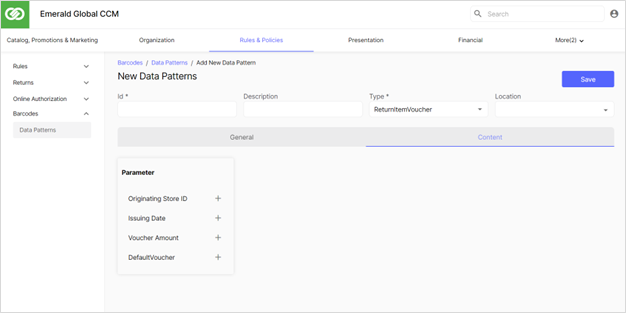
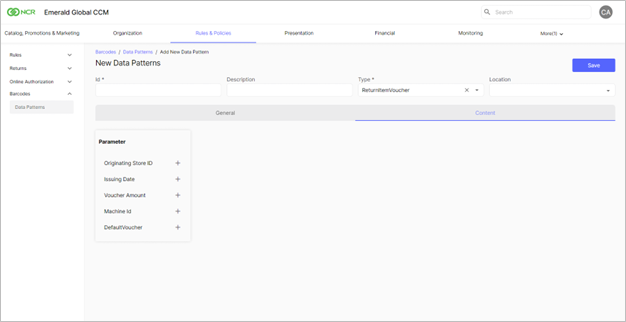
Changes to be committed:

diff --git a/Catalog_Promotions_and_Marketing/Promotions/Promotions.md b/Catalog_Promotions_and_Marketing/Promotions/Promotions.md
@@ -131,8 +131,9 @@ The Reward option defines the reward types issued when the promotion is triggere
 |Reward Applies to Baskets|The Basket rewarded in the promotion. For example, if you want to set up a promotion 'Buy a sandwich Get coffee for Free, on creating the promotion the sandwich is linked to one basket and the coffee to another. The basket including the coffee is selected as the basket the reward is applied to.<br>This is a mandatory field. By default, the field is blank and a value must be selected.|
 |Accumulate Reward Into|The entity the promotion reward is accumulated into. The promotion reward is given as a deferred reward and not as an immediate reward. This enables retailers to support sophisticated points earning schemes, such as Fixed amount of points, or calculated amounts based on the items price or quantity.<BR><BR>**Member Account** - The reward is accumulated into a Member Account<BR>When selected, the following fields are displayed.<BR>*Member Account* - The name of the Member Account in which the points earned in a promotion are accumulated in.<BR>*Exclude from Tender Optimization* – Indicates that the promotion participates in Tender Optimization. Tender Optimization is a type of conflict, which ensures that if more than one promotion is triggered in a transaction, the customer is rewarded with the maximum number of points.<BR>For example, a customer partially pays for their items in cash and partially with a tender, which is excluded from a points earning promotion. To give the customer the maximum points reward, the cash tender pays for items which contribute the most to the points accumulation.<BR><BR>**Coupon** - The reward is accumulated into a coupon reward. Opens additional fields for details.<BR>When selected, the following fields are selected:<BR>*Coupon Type* - the coupon number issued when the promotion is triggered. The options are:<BR>Full Barcode – indicates that the exact full barcode, which is defined in the Barcode field is issued when this promotion is triggered.<BR>Instance Selection - indicates that a coupon, which belongs to the selected coupon instance is issued when the promotion is triggered.<BR>*Message ID* – The message template printed on the coupon when issued.<BR>*Group By* - Specifies if the promotion aggregates multiple coupons within one transaction, or as a single coupon.<BR>The options are:<br>Promotion Level (Default) – indicates that a coupon is issued only once in a transaction, regardless of the number of times a promotion is triggered. The reward value of the coupon aggregates all the reward values, and is dependent on the number of redemptions.<br>Redemption Level – indicates that a coupon is issued each time the promotion is triggered.<br>Ticket Level - indicates that all coupon rewards issued from different promotions triggered in a ticket with the same Coupon Series ID, Coupon Instance ID, Message ID and Validity Period are aggregated into one coupon. For example, if the customer receives a coupon reward for $1.50 off and another coupon reward for $5.00 off, the customer receives one coupon for $6.50.<BR>*Validity Period* - The period during which the coupon reward is valid.<BR>The options are:<br>Always - the coupon is valid up to 2 years from the date the coupon was issued<br>Starting From - the coupon is valid from the date the coupon was issued up to a specified  number of days. When selected the following fields are displayed:<BR>Between Date Range (From, To) - the dates between which the coupon is valid. When selected, the following fields are displayed:<BR>**Gift Card** - The reward is accumulated into a Gift Card. When selected the Gift Card ID field is displayed to enter the Gift Card ID.|
 |Manually triggered in POS|Indicates that the reward is manually triggered at the POS terminal by the cashier.<BR>When selected the following fields are displayed:<BR>**Reward apply on all items lines** – specifies the range of reward amounts that can be issued when the promotion is manually triggered at the POS.<BR>*Minimum Reward Value* - The minimum reward that can be issued.<BR>*Maximum Reward Value* - The maximum reward that can be issued.|
-|Multi Level|Indicates if reward levels are defined to enable customers to get bigger rewards as they spend or buy more.<br>For example, if you are running a promotion that specifies 'Buy a Cake on promotion for $3.00, instead of the regular price of $4.00, you can add levels to specify that if the Customer purchases 2 cakes, they pay $2.50, or 3 cakes, they pay $2.00, etc. You can add as many levels as you wish.<br>**Note:** A single condition must be defined before assigning multiple reward levels.<br>If selected the following fields are displayed:<br>**Level ID** – The reward level number (automatically populated by the system).<br>**Threshold Value** – The minimum qualifying amount or quantity of the item/s on promotion to be purchased, to allow the reward specified in this level. E.g., enter 3, to specify that is the number of items the customer must purchase.<br>**Reward Value** - The reward value, e.g., enter 2 to indicate a new price of $2.00.|
+|Multi Level|Indicates if reward levels are defined to enable customers to get bigger rewards as they spend or buy more.<br>For example, if you are running a promotion that specifies 'Buy a Cake on promotion for $3.00, instead of the regular price of $4.00, you can add levels to specify that if the Customer purchases 2 cakes, they pay $2.50, or 3 cakes, they pay $2.00, etc. You can add as many levels as you wish.<br>**Note:** A single condition must be defined before assigning multiple reward levels.<br>When selected the following fields are displayed:<br>**Level ID** – The reward level number (automatically populated by the system).<br>**Threshold Value** – The minimum qualifying amount or quantity of the item/s on promotion to be purchased, to allow the reward specified in this level. E.g., enter 3, to specify that is the number of items the customer must purchase.<br>**Reward Value** - The reward value, e.g., enter 2 to indicate a new price of $2.00.|
 |Redeem from Member Account|Indicates that monetary rewards are given against points accumulated in Member Accounts. When selected, the following fields are displayed:<br>**Member Account** – The Member Account from which the points are redeemed.<br>**Redeem Value** – The value redeemed during the promotion. The value is a value per redemption. For example, if the promotion is configured to give $5 off, and the number of points to redeem is configured as 2, if the promotion is triggered 4 times, the customer receives $20 discount and 8 points are deducted from the selected member account.<br>**Redeem Once Per Ticket** - the number of points redeemed in a promotion is deducted from the member account only once per ticket, and not each time the promotion is triggered.<br>For example, a promotion rewarding the Loyalty customers with $0.10 Off per liter of fuel purchased. To trigger the promotion, the customer must have accumulated at least 100 points in their Member Account, which are redeemed when the promotion is triggered. The Redeem Once Per Ticket field is set to Yes.<br>The customer has 300 points in their Member Account and purchases five liters of fuel. The customer receives a total discount of $0.50 and 100 points are redeemed from their Member Account. The closing balance is 200.<BR>Although the $0.10 discount is deducted for each liter of fuel, the points are deducted from the Member Account only once in the transaction.|
+|Pay By Points Promotion|Indicates that the promotion can only be triggered manually. When selected, the following field is displayed:<BR>* **Trigger Type** – Manually – indicates that the promotion can only be triggered manually.|
 |Rounding Method|Specifies how the reward is rounded. The options are:<BR>**Nearest** - indicates that the decimal value is rounded to the nearest integer, e.g., $10.75 is rounded to $11.00.<br>**Always Up** - indicates that the decimal value is rounded up to the next decimal place, e.g., $10.75 is rounded to $10.80.<br>**Always Down** - indicates that the decimal value is rounded down to the next decimal place, e.g., $10.75 is rounded to $10.70.|
 |Reward Accounting Type|Specifies the option used to fund the promotion in order to reconcile the rewards given to customers according to the agreements with the suppliers/stores.<BR>The options are:<BR>**Discount** - indicates that the promotion reward is reduces the item price. The reward amount is deducted from the amount the customers pays and reduces the store's revenues.<BR>**Tender** - indicates that the reward amount is recorded as a tender. The promotion reward is not deducted from the item price and does not reduce the store’s revenue. It is accounted for as a tender paid by the customer.<BR>Only promotions with a monetary reward can be setup to calculate the reward as a tender. The promotion represents the tender, which pays for the item.<BR>For example:<BR>Pay with a Visa card for a computer on sale in the store and get 5% discount. Visa covers the computer price.<BR>Staff Discount as a Tender - the Retailer may give their employees a defined percentage off all their purchases. When an employee purchases items, and the employee card is swiped before the transaction, the reward amount does not reduce the retailer's revenue by reducing the items price, but instead is reported as a special Staff Discount Tender.<BR>Another example is Coupon as tender. A coupon may be considered a tender and therefore trigger a promotion with a reward as tender.<BR>For example, the store is running a promotion Buy 3 Bottles of Wine, Present a Coupon and Get the New Price of $10.00 instead of $27.00. The Coupon amount is recorded to the rewarding tender.  This enables the user to follow up all discounts given on a specific reward, i.e., coupons.<BR>Rewarding Tenders can accumulate a range of reward types, amount off, percent off, new price, etc.|
 |Apply reward on item without modifiers|Indicates that the reward is applied to items with modifiers that are charged an extra price.<BR>If selected, the promotion discount is only applied to the main item and not to any modifiers added to the item.<BR>If not selected, the promotion discount is applied to both the main item and all added modifiers. This is the default value.<BR>For example, a Buy a Burger Get For $11.00 promotion is running in the store. The Apply reward on items without modifiers slider is set to display No.<BR>The customer orders a Burger for $13.00 and adds Avocado $0.50 and Egg $0.50 (modifiers) to the order. On triggering the promotion, the promotion reward is applied to the total order amount $14.00 including the modifiers. The customer pays $11.00.|
@@ -223,15 +224,16 @@ Defines the promotion timing and conflict policies applied to a promotion.
 |**Redemption Limit**|The redemption limitations applied to the promotion.|
 |Limitation Period|Specifies the redemption limitations applied to the promotion.<BR>The options are:<BR>**Ticket Limit** - the promotion redemption limit is per transaction.  For example, in one transaction the customer may be limited to redeem up to 100 points, or if the reward is a free item, the customer may be limited to receive the reward only once per transaction.<BR>**Days** - the promotion redemption limit is per day or number of days. When selected the No of Days field is displayed to enter the number of days the promotion redemptions are limited to.<BR>For example, if the No of Days is 30, and the Limit Value is 5, the customer can redeem the promotion five times in 30 days.<BR>**Total** - the number of promotion redemptions is not limited to a specific time period. The system only takes into account the promotion expiry date. For example, you can specify that the customer can redeem the promotion five times.|
 |Limit Value|The number of promotion redemptions limited in the selected Limitation Period.|
-|UOM Quantity Limit|Limits the UOM quantity rewarded in a ticket when there is no limit on the number of redemptions.<BR>For example, you can set up a promotion to Get a New Price of $4.00 per kilo , and limit the reward to 5 kg in the ticket. If the customer bought 10 kg, the customer is rewarded only 5 kg. The limitation can be defined per ticket, total amount, or days.<BR>A UOM Quantity Limit can be applied to the current ticket or multiple transactions for loyalty members (Days, Total). For example, limit to 5Kg in 1 day, or limit to 5 kg in total.<BR>The UOM limit is applicable only for Amount Off, Percent Off, New Price and Free Item rewards.|
+|UOM Quantity Limit|Limits the UOM quantity rewarded in a ticket when there is no limit on the number of redemptions.<BR>For example, you can set up a promotion to Get a New Price of $4.00 per kilo, and limit the reward to 5 kg in the ticket. If the customer bought 10 kg, the customer is rewarded only 5 kg. The limitation can be defined per ticket, total amount, or days.<BR>A UOM Quantity Limit can be applied to the current ticket or multiple transactions for loyalty members (Days, Total). For example, limit to 5Kg in 1 day, or limit to 5 kg in total.<BR>The UOM limit is applicable only for Amount Off, Percent Off, New Price and Free Item rewards.|
 |Limitation Period|The redemption limitations applied to the promotion.<BR>The options are:<BR>**Ticket Limit** - The UOM Quantity is limit is per transaction. For example, the customer may be limited to receive a reward on up to 5 kg only in a transaction.<BR>**Days** - The UOM Quantity is limited per day or number of days. For example, the customer may be limited to receive a reward up to 5 kg per day. When selected the No of Days field is displayed to enter the number of days the promotion redemptions are limited to.<BR>For example, The number of days the UOM Quantity is limited to. For example, if the No of Days is 10, and the Limit Value is 5, the customer is limited to purchase 5 kg in 10 days.<BR>**Total** - The UOM Quantity is limited to a specified amount. For example, the customer may be limited to receive a reward on a total of 5 kg.|
 |Limit Value|The amount the UOM Quantity is limited to. For example, if you enter 5, the promotion redemption is limited to 5 kg.|
-|Conflict and Priority|Defines conflict participation for each promotion. You can specify which promotions participate in promotion conflicts, and which promotions are excluded from promotion conflicts.<BR>Promotion conflicts occur when there is more than one promotion offering different rewards on the same items. The Conflict Management rules aim to optimize customer rewards, while minimizing the option of giving double rewards on items that trigger more than one promotion. Any item that can trigger a promotion on its own can participate in Conflict Management.<BR>In addition, you can assign a promotion to a Promotion Group. The Promotion engine resolves promotion conflicts between promotions linked to the same Conflict Group.<BR>For example:<BR>A customer purchases two cokes, with the following two promotions in the system:<BR>The first promotion has the condition that when purchasing two cokes, the customer is rewarded with one free coke.<BR>The second promotion has the condition that when purchasing two cokes, the customer is rewarded with 25% off the second coke.<BR>In the case where both promotions are not assigned to the same Conflict Group, then the customer is rewarded twice. The customer is rewarded with one coke free, and also rewarded with 25% off the second coke.<BR>In the case where both promotions are assigned to the same Conflict Group, only one of the promotions is triggered for each instance of an item.<BR>This means, that each item (instance) is allocated to one promotion. The items allocation between the promotions, depends on what the best reward is for the customer. In this case, the best reward value available to the customer is achieved by allocating both cokes to the first promotion, and rewarding the customer with a free coke (i.e. The reward value is higher than receiving 2*25% off).|
+|Conflict and Priority|Defines conflict participation for each promotion. You can specify which promotions participate in promotion conflicts, and which promotions are excluded from promotion conflicts.<BR>Promotion conflicts occur when there is more than one promotion offering different rewards on the same items. The Conflict Management rules aim to optimize customer rewards, while minimizing the option of giving double rewards on items that trigger more than one promotion. Any item that can trigger a promotion on its own can participate in Conflict Management.<BR>In addition, you can assign a promotion to a Promotion Group. The Promotion engine resolves promotion conflicts between promotions linked to the same Conflict Group. <BR>For example:<BR>A customer purchases two cokes, with the following two promotions in the system:<BR>The first promotion has the condition that when purchasing two cokes, the customer is rewarded with one free coke. <BR>The second promotion has the condition that when purchasing two cokes, the customer is rewarded with 25% off the second coke.<BR>In the case where both promotions are not assigned to the same Conflict Group, then the customer is rewarded twice. The customer is rewarded with one coke free, and also rewarded with 25% off the second coke.<BR>In the case where both promotions are assigned to the same Conflict Group, only one of the promotions is triggered for each instance of an item.<BR>This means, that each item (instance) is allocated to one promotion. The items allocation between the promotions, depends on what the best reward is for the customer. In this case, the best reward value available to the customer is achieved by allocating both cokes to the first promotion, and rewarding the customer with a free coke (i.e. The reward value is higher than receiving 2*25% off).|
 |Promotion Group|The ID the Promotion Group assigned to the promotion to handle promotion conflicts. If there is a conflict between two promotions linked to the same Promotion Group, the Promotion Engine resolves the conflict, and rewards the customer according to the priority and strategy defined for the Promotion Group.|
 |Allow Partial Reward|Indicates that the promotion reward is partially issued.<BR>If not selected, the promotion reward must be fully issued.<BR>For example, a promotion Buy 6 bottles of wine and Get 10% Off is running in the store. If the customer buys the 6 bottles of wine, the full reward of 10% is issued.<BR>Items rewarded in this scenario can also be used to trigger additional promotions in the same promotion group in which this option is set Yes.<BR>However, items which have already triggered a promotion cannot be used to trigger another promotion in which the reward was fully issued.<BR>If selected, the promotion reward can be partially issued.<BR>For example, if in addition to the above promotion, a 'Buy 8 bottles of wine and Get 5%' promotion is defined, when the customer buys 8 bottles of wine, all the 8 bottles of wine can be used to trigger the promotion even though 6 bottles have already triggered a promotion.<BR>However, the reward is only given on the bottles of wine not previously rewarded, i.e., the additional 2 bottles.<BR>If an item has already triggered a promotion, it cannot be used to trigger a promotion that was fully rewarded.|
 |Exclude promoted items|Specifies if items which triggered a promotion are excluded from triggering another promotion in the same ticket.<BR>If selected, the promotion is triggered only by items that have not triggered another promotion.<BR>For example, the following two promotions are set in the store:<BR>Buy A get $1.00 Off<BR>10% on your ticket<BR>The customer buys items A and B.<BR>The cashier scans Item A, and the first promotion is triggered.<BR>The cashier scans Item B, and the second promotion is triggered. The second promotion applies only on Item B since Item A is participated in the previous promotion.|
 |**Reward Limit**|Specifies the promotion reward limits.|
-|Limitation Period|The redemption limitations applied to the promotion.<BR>The options are:<BR>**Ticket Limit** - indicates that the promotion reward limit is per transaction.  For example, in one transaction the customer may be limited to a reward of up to 100 points, or if the reward is a free item, the customer may be limited to receive the reward only once.<BR>**Days** - indicates that the promotion redemption limit is per day or number of days. When selected the No of Days field is displayed to enter the number of days the promotion rewards are limited to.<BR>**Total** - indicates that the number of promotion rewards is not limited to a specific time period. The system only takes into account the promotion expiry date, for example, you can specify that the customer can receive a promotion reward five times.|
+|Include Reward Limit|Indicates that the user can apply the redemption limits to the promotion. When selected, the Limitation Period and Limit Value are enabled to allow the user to define the promotion limitation period and value.<BR>The **Include Reward Limit** field is displayed only when the **Pay By Points Promotion** checkbox is selected in the **Reward/Amount Off ##section.|
+|Limitation Period|The redemption limitations applied to the promotion.<BR>The options are:<BR>**Ticket Limit** - indicates that the promotion reward limit is per transaction.  For example, in one transaction the customer may be limited to a reward of up to 100 points, or if the reward is a free item, the customer may be limited to receive the reward only once.<BR>**Days** - indicates that the promotion redemption limit is per day or number of days. When selected the No of Days field is displayed to enter the number of days the promotion rewards are limited to.<BR>**Total** - indicates that the number of promotion rewards is not limited to a specific time period. The system only takes into account the promotion expiry date, for example, you can specify that the customer can receive a promotion reward five times.<BR><BR>**Note**: The **Limitation Period** and **Limit Value** fields are disabled for **Pay By Points Promotions**. See the **Include Reward Limit** field above.|
 |Limit Value|The number of promotion rewards limited in the selected Limitation Period.|
 
 ### Marketing Channels

diff --git a/Rules_and_Policies/Barcodes/Content_Tab.md b/Rules_and_Policies/Barcodes/Content_Tab.md
@@ -400,6 +400,7 @@ The **Return Item Voucher** data pattern type enables you to configure the data 
 |**Originating Store ID**|The ID of the store in which the item was purchased.<br>**Position** The position in the data pattern from which the originating store ID begins in the data pattern.<br>**Length** The number of digits in the originating store ID.<br>**Strip Leading Zeros** Indicates that leading zeros in the originating store ID are not considered in the validation, and the system validates the cashier reference ID without the zeros.|
 |**Issuing Date**|The date the voucher was issued.<br>**Position** The position in the data pattern from which the issuing date begins in the data pattern.<br>**Length** The number of digits in the issuing date.<br>**Strip Leading Zeros** Indicates that leading zeros in the issuing date are not considered in the validation, and the system validates the issuing date without the zeros.|
 |**Voucher Amount**|The voucher amount.<br>**Position** The position in the data pattern from which the voucher amount begins in the data pattern.<br>**Length** The number of digits in the voucher amount.<br>**Strip Leading Zeros** Indicates that leading zeros in the i voucher amount are not considered in the validation, and the system validates the i voucher amount without the zeros.|
+|**Machine ID**|The ID of the Bottle Return machine on which the voucher was issued.<BR>**Position** - The position in the data pattern from which the machine ID amount begins in the data pattern.<BR>**Length** - The number of digits in the machine ID.<BR>**Decimals** - The number of decimals in the machine ID.|
 
 ### External Consumption Barcode Data Pattern Type
 

diff --git a/Rules_and_Policies/Rules/Business_Rules.md b/Rules_and_Policies/Rules/Business_Rules.md
@@ -119,6 +119,7 @@ The following Business Rule Types are supported.
 |**Void item**|To evaluate the items voided in a transaction.|**Limit Value** – to specify the maximum amount of voided item.<BR>**Limit Type** – to specify if the Limit Value is per item line or in the entire transaction.<BR>**Max amount per ticket** – the maximum amount that can be voided in a transaction.<BR>**Max allowed per line** – the maximum amount that can be voided in line of a transaction.|
 |**Void tab**|To evaluate voided tabs|**Apply only if transaction contains authorized online item** – indicates that the rule is triggered only if authorized online items are included in the tab.|
 |**Void transaction**|To evaluate voided transactions.<BR>This rule can also be triggered in return transactions.|**Apply only if transaction contains authorized online item** – indicates that the rule is triggered only if authorized online items are included in the transaction.|
+|**Void Tender**|To evaluate if Supervisor Approval is prompted when a cashier voids a tender at the POS.|**Max Tender Line Amount** – to specify the maximum tender amount that can be voided without supervisor approval.|
 
 ### Generic Rule Conditions 
 
